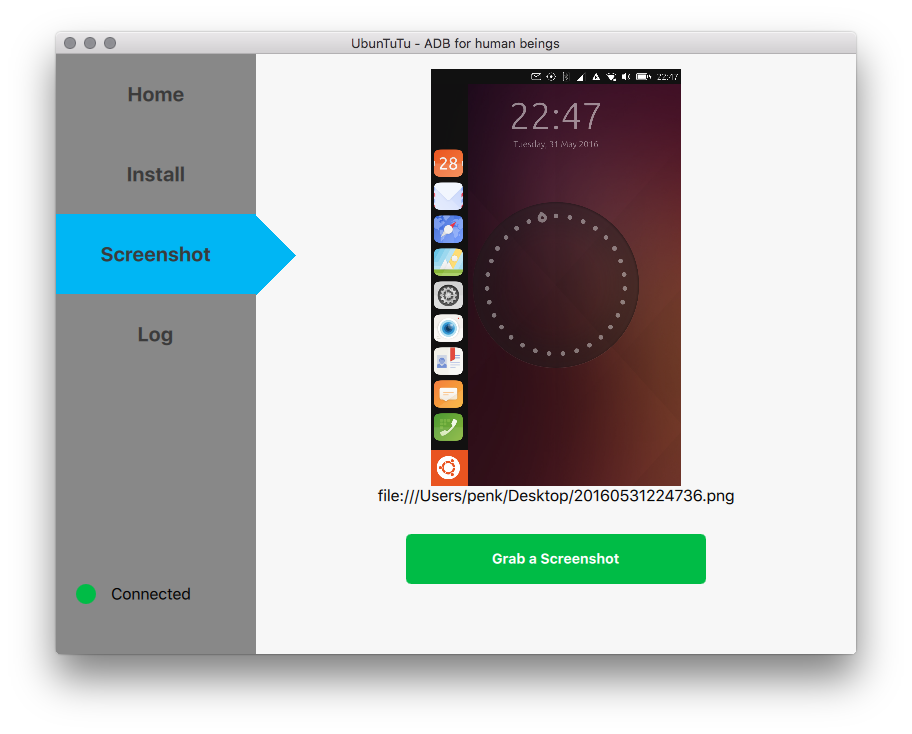
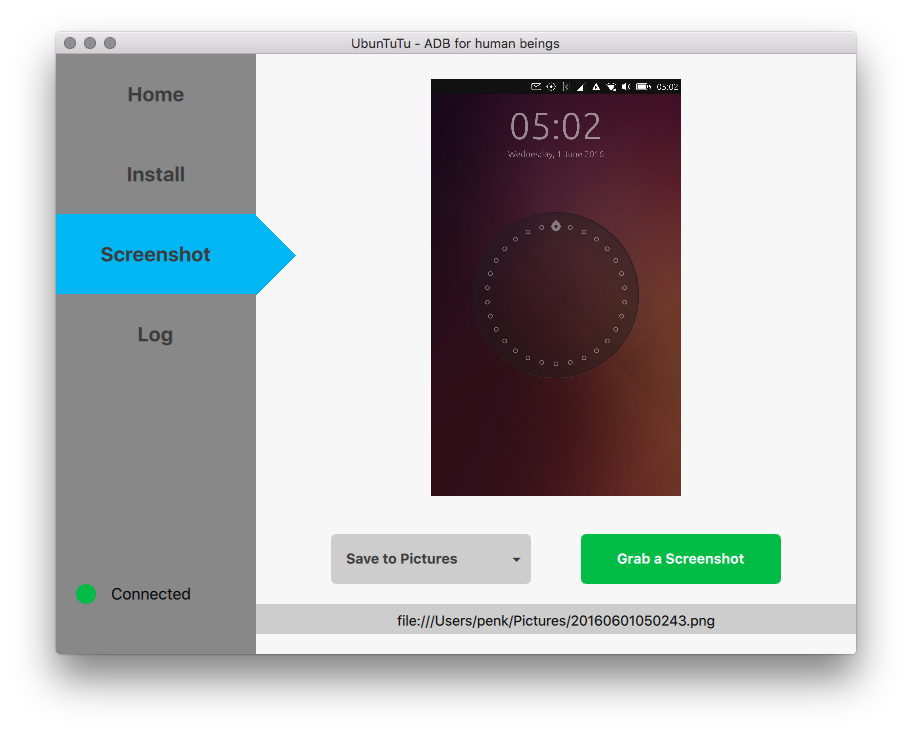
Add file dialog for screenshot destination

diff --git a/qml/Screenshot.qml b/qml/Screenshot.qml
@@ -1,20 +1,70 @@
 import QtQuick 2.0
 import Process 1.0
 import "colour.js" as Colour
+import QtQuick.Dialogs 1.2
 
 Item {
     Component.onCompleted: {
         console.log('Screenshot loaded')
     }
+    FileDialog {
+        id: fileDialog
+        title: "Please choose a file"
+        folder: shortcuts.pictures
+        selectMultiple: false
+        selectFolder: true
+        onAccepted: {
+            console.log("You chose: " + fileDialog.fileUrls)
+        }
+        onRejected: {
+            console.log("Canceled")
+        }
+    }
+
+Row { 
+    spacing: 50
+    id: button
+    anchors {
+        horizontalCenter: parent.horizontalCenter
+        bottom: parent.bottom
+        bottomMargin: 70
+    }
 
     Rectangle {
-        id: button
-        anchors {
-            horizontalCenter: parent.horizontalCenter
-            bottom: parent.bottom
-            bottomMargin: 70
+        id: pathButton
+        width: 200
+        height: 50
+        radius: 5
+        color: Colour.palette['Silk']
+        Text {
+            anchors.horizontalCenter: parent.horizontalCenter
+            anchors.verticalCenter: parent.verticalCenter
+            text: 'Save to ' + fileDialog.folder.toString().replace(/.*\//, "")
+            clip: true
+            font.bold: true
+            font.pointSize: 14
+            width: parent.width - 30
+            color: Colour.palette['Inkstone']
+            elide: Text.ElideRight
         }
-        width: 300
+        Text {
+            anchors.right: parent.right
+            anchors.verticalCenter: parent.verticalCenter
+            anchors.rightMargin: 10
+            text: '▾'
+            color: Colour.palette['Inkstone']
+            font.bold: true
+            font.pointSize: 14
+        }
+        MouseArea {
+            anchors.fill: parent
+            onClicked: fileDialog.visible = true;
+        }
+    }
+    
+    Rectangle {
+        id: grabButton
+        width: 200
         height: 50
         radius: 5
         color: Colour.palette['Green']
@@ -29,10 +79,11 @@ Item {
             anchors.fill: parent
             onClicked: {
                 screenpath.text = 'Waiting..' 
-                shell.start(applicationDirPath + '/utils/screenshot.sh', [ applicationDirPath ]);
+                shell.start(applicationDirPath + '/utils/screenshot.sh', [ applicationDirPath, fileDialog.folder.toString().replace(/file:\/\//, "") ]);
             }
         }
     }
+}
 
     Process {
         id: shell 
@@ -47,16 +98,25 @@ Item {
         }
     }
 
-    TextEdit {
-        id: screenpath
+    Rectangle { 
         anchors {
-            top: img.bottom
-            bottom: button.top
+            top: button.bottom
+            margins: 20
+            bottom: parent.bottom
+            horizontalCenter: parent.horizontalCenter
         }
         width: parent.width
-        horizontalAlignment: TextEdit.AlignHCenter
-        font.pointSize: 16
-        selectionColor: Colour.palette['Green']
+        visible: screenpath.text !== ""
+        color: Colour.palette['Silk']
+        
+        TextEdit {
+            id: screenpath
+            anchors.fill: parent
+            anchors.margins: 8
+            horizontalAlignment: TextEdit.AlignHCenter
+            font.pointSize: 14
+            selectionColor: Colour.palette['Green']
+        }
     }
 
     Image {
@@ -65,6 +125,7 @@ Item {
             top: parent.top
             horizontalCenter: parent.horizontalCenter
             margins: 15
+            topMargin: 25
         }
         fillMode: Image.PreserveAspectFit 
         width: 250
